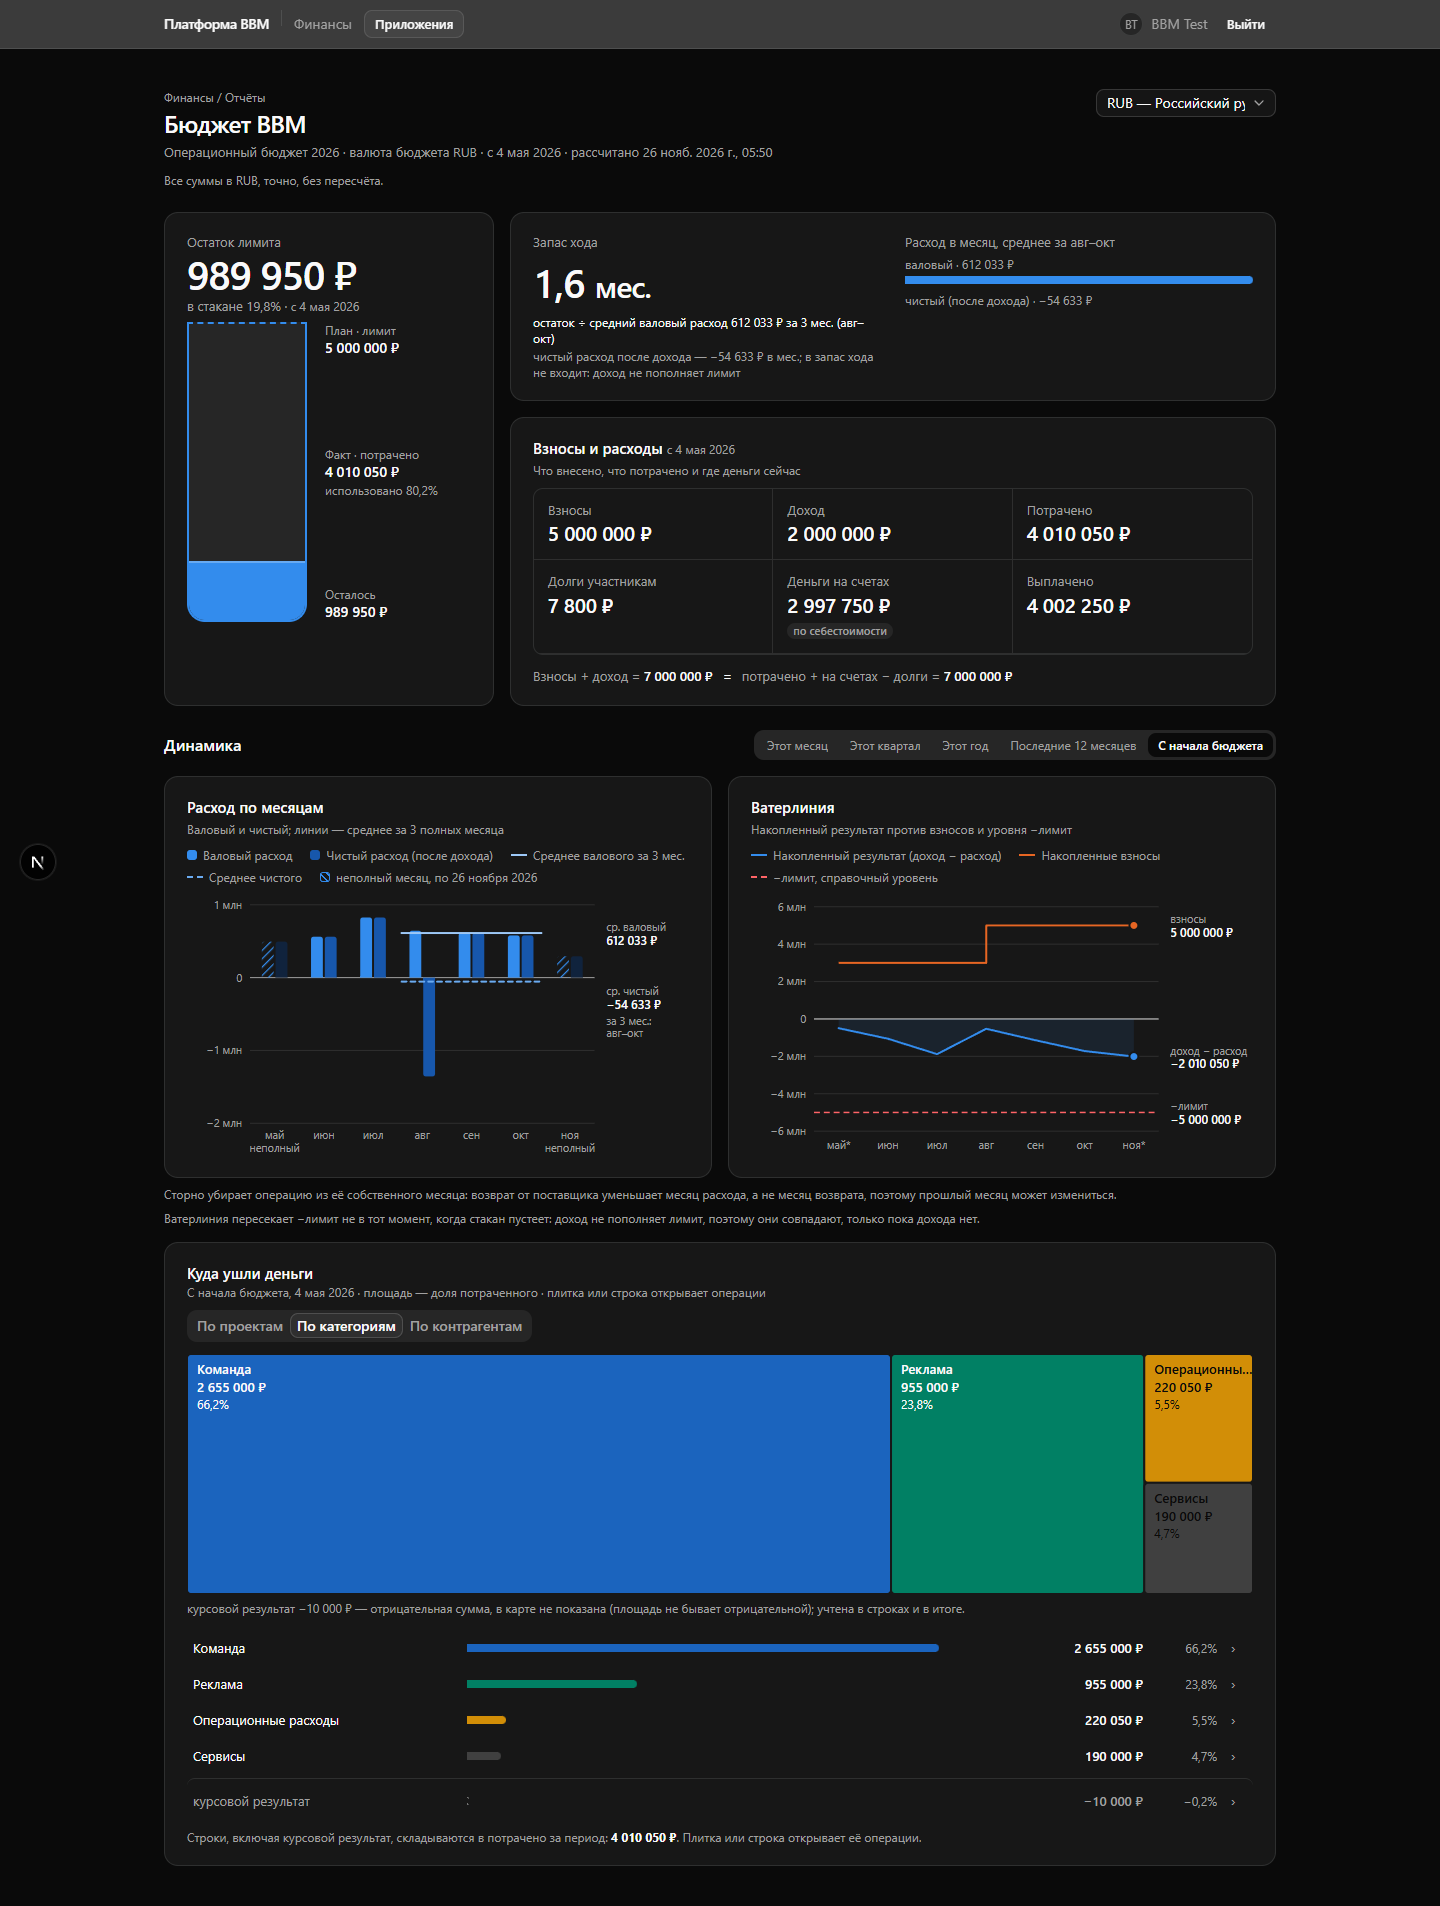
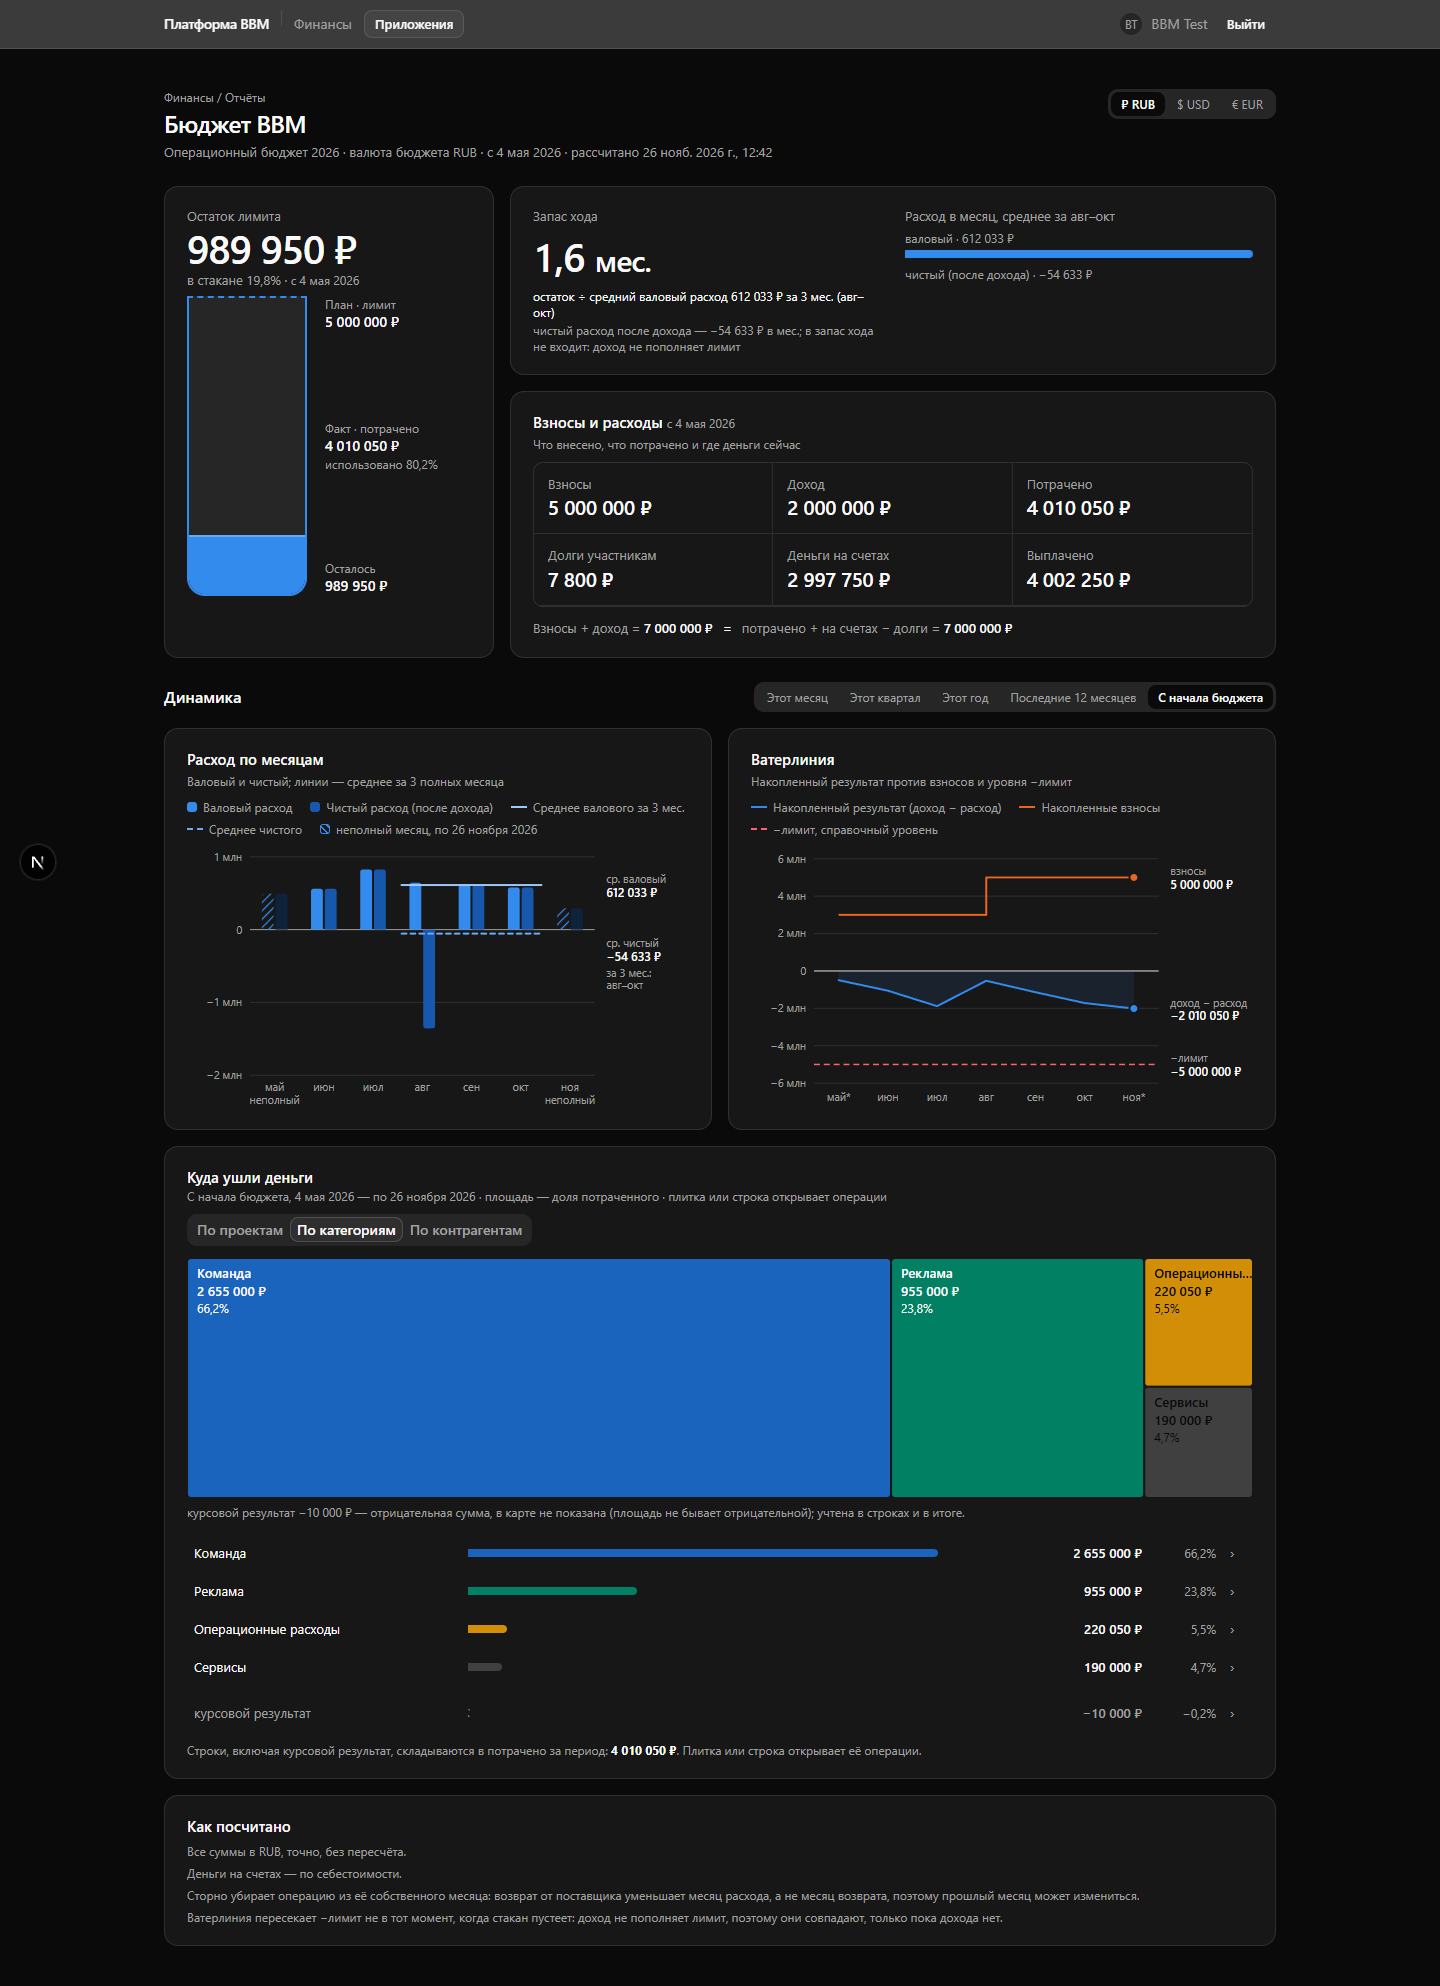
docs(finance): recapture the budget evidence after the owner's live-stand round (#586)
Claude-Session: https://claude.ai/code/session_01BCe8sBchD5mRqQrcmDiypQ

diff --git a/docs/evidence/586/README.md b/docs/evidence/586/README.md
@@ -5,9 +5,9 @@ Captured with Playwright on the worktree stand (port 3000, `platform_586`, seede
 Bank of Russia rates synced into the branch DB), signed in as the dev `bbm-member` — a plain
 platform member with no finance role (EARS-701). Full-page frames: desktop 1440 px wide (the
 light ones from the e2e journey at the Playwright default width), mobile 390×844. Dark frames
-set the workspace's `.dark` theme class. No frame scrolls sideways (measured: 0 px overflow).
+set the workspace's `.dark` theme class. Recaptured 2026-11-26 after the owner's live-stand feedback (segmented currency switch, one «Как посчитано» block at the bottom). No frame scrolls sideways (measured: 0 px overflow).
 
-| Frame                                          | What it shows                                                                                                                                                                                                                      |
-| ---------------------------------------------- | ---------------------------------------------------------------------------------------------------------------------------------------------------------------------------------------------------------------------------------- |
-| `budget-rub-{desktop,mobile}-{light,dark}.png` | The budget currency (₽): the glass with limit, spent and remaining; runway with the gross and net burn; the money tier and its reconciliation; monthly burn and the waterline; the breakdown treemap and rows by category          |
-| `budget-usd-{desktop,mobile}-{light,dark}.png` | The same reading switched to $ (EARS-721/722): the rate line, flow figures at each operation's actual rate, stocks «по курсу ЦБ на …», the fallback marks per figure and per breakdown line, and the two relation-difference lines |
+| Frame                                          | What it shows                                                                                                                                                                                                                                                             |
+| ---------------------------------------------- | ------------------------------------------------------------------------------------------------------------------------------------------------------------------------------------------------------------------------------------------------------------------------- |
+| `budget-rub-{desktop,mobile}-{light,dark}.png` | The budget currency (₽): the glass with limit, spent and remaining; runway with the gross and net burn; the money tier and its reconciliation; monthly burn and the waterline; the breakdown treemap and rows by category                                                 |
+| `budget-usd-{desktop,mobile}-{light,dark}.png` | The same reading switched to $ (EARS-721/722): the one pointer line under the header, every figure converted with no per-figure caption, and the «Как посчитано» block holding the rate rules, the Bank of Russia fallback count and months, and the relation differences |
